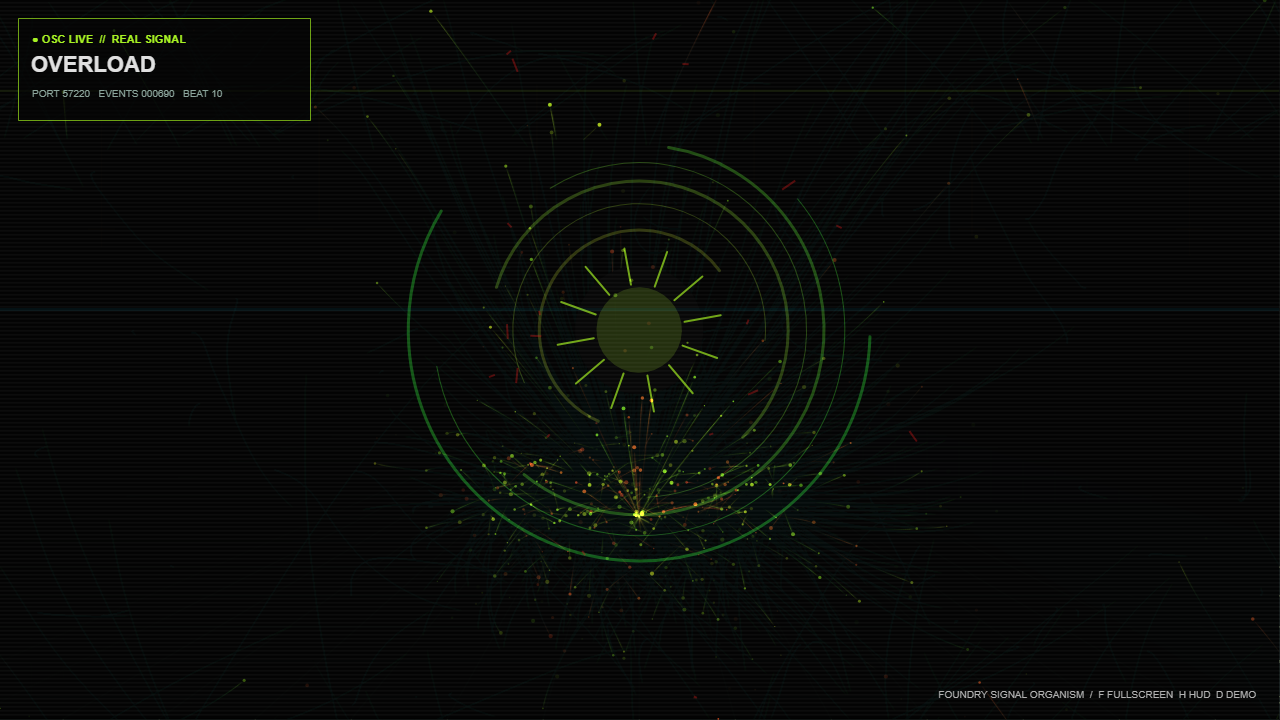
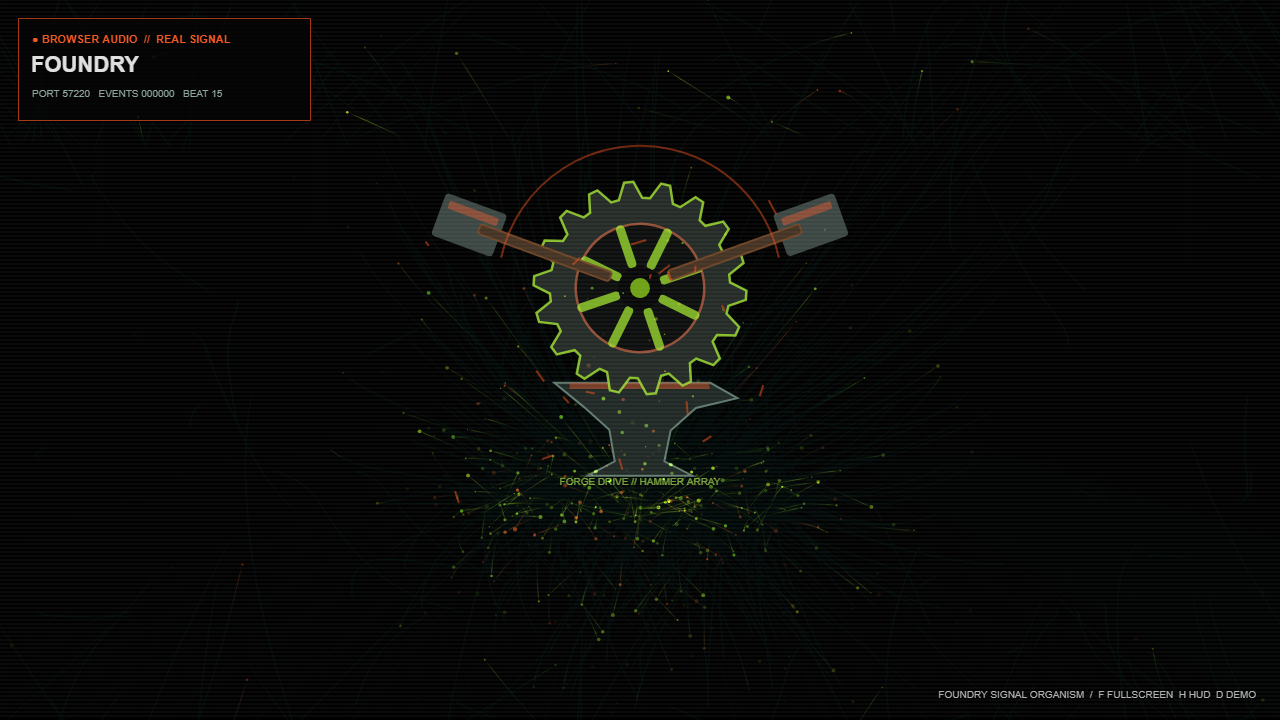
Add animated forge gear and hammer assembly

diff --git a/docs/index.html b/docs/index.html
@@ -134,14 +134,33 @@ function renderTrails(){
   trails.blendMode(BLEND);image(trails,0,0);
 }
 function renderCore(){
-  const cx=width/2,cy=height*.46,base=Math.min(width,height)*(.13+state.kick*.018);
-  push();translate(cx,cy);rotate(frameCount*.002*(state.section==='OVERLOAD'?4:1));
-  blendMode(ADD);noFill();
-  for(let r=0;r<7;r++){const rr=base*(1+r*.22)+sin(frameCount*.025+r)*5;stroke((82+r*9+state.sectionIndex*31)%360,80,70,20+r*3+state.note*14);strokeWeight(r%2?1:3);arc(0,0,rr*2,rr*2,r*.72+state.snare,r*.72+PI+state.kick)}
-  blendMode(BLEND);noStroke();fill(0,0,2,92);circle(0,0,base*1.28);fill(82,80,80,8+state.kick*25);circle(0,0,base*(.75+state.kick*.2));
-  stroke(82,88,95,68);strokeWeight(2);for(let i=0;i<12;i++){const a=TWO_PI*i/12+frameCount*.006;const r1=base*.46,r2=base*(.72+state.note*.2);line(cos(a)*r1,sin(a)*r1,cos(a)*r2,sin(a)*r2)}
-  if(state.voice>.02){noFill();stroke(190,85,95,state.voice*70);strokeWeight(2);for(let i=0;i<5;i++){const rr=base*(1.5+i*.18+sin(frameCount*.15+i)*.05);arc(0,0,rr*2,rr*2,-1.1,1.1)}}
+  const cx=width/2,cy=height*.40,base=Math.min(width,height)*(.125+state.kick*.012);
+  drawAnvil(cx,cy+base*1.30,base);
+  push();translate(cx,cy);rotate(frameCount*.008*(state.section==='OVERLOAD'?2.4:1));
+  stroke(82,78,92,78);strokeWeight(2.5);fill(155,18,18,96);
+  beginShape();const teeth=18;
+  for(let i=0;i<teeth*4;i++){const a=TWO_PI*i/(teeth*4),phase=i%4,r=base*(phase===1||phase===2?1.18:1.0);vertex(cos(a)*r,sin(a)*r)}
+  endShape(CLOSE);
+  fill(160,12,6,100);stroke(15,65,75,72);circle(0,0,base*1.42);
+  stroke(82,80,92,72);strokeWeight(base*.10);for(let i=0;i<8;i++){const a=TWO_PI*i/8;line(cos(a)*base*.28,sin(a)*base*.28,cos(a)*base*.68,sin(a)*base*.68)}
+  noStroke();fill(0,0,3,100);circle(0,0,base*.48);fill(82,88,95,65+state.kick*30);circle(0,0,base*.22);
   pop();
+  drawHammer(cx-base*1.95,cy-base*.72,1,state.kick,base);
+  drawHammer(cx+base*1.95,cy-base*.72,-1,state.snare,base);
+  noFill();stroke(15,88,95,45+state.snare*40);strokeWeight(2);arc(cx,cy,base*3.15,base*3.15,PI+.22,TWO_PI-.22);
+  if(state.voice>.02){stroke(190,85,95,state.voice*70);for(let i=0;i<4;i++){const rr=base*(1.75+i*.17);arc(cx,cy,rr*2,rr*2,-1.05,1.05)}}
+  noStroke();fill(82,65,88,70);textAlign(CENTER);textSize(10);text('FORGE DRIVE // HAMMER ARRAY',cx,cy+base*2.18);textAlign(LEFT);
+}
+function drawHammer(x,y,side,impact,b){
+  push();translate(x,y);scale(side,1);rotate(.34+impact*.46);const len=b*1.55;
+  noStroke();fill(155,16,28,100);rect(-b*.30,-b*.25,b*.72,b*.50,4);fill(15,70,70,65);rect(-b*.23,-b*.18,b*.58,b*.09,2);
+  stroke(25,65,45,90);strokeWeight(2);fill(28,48,27,100);rect(b*.18,-b*.055,len,b*.11,3);
+  pop();
+}
+function drawAnvil(x,y,b){
+  push();translate(x,y);stroke(155,20,52,90);strokeWeight(2);fill(158,18,16,100);
+  beginShape();vertex(-b*.95,-b*.25);vertex(b*.78,-b*.25);vertex(b*1.08,-b*.08);vertex(b*.62,b*.03);vertex(b*.34,b*.28);vertex(b*.27,b*.62);vertex(b*.58,b*.78);vertex(-b*.58,b*.78);vertex(-b*.28,b*.62);vertex(-b*.34,b*.27);vertex(-b*.62,b*.02);endShape(CLOSE);
+  fill(15,78,75,55+state.kick*35);noStroke();rect(-b*.78,-b*.25,b*1.55,b*.07);pop();
 }
 function renderParticles(){
   blendMode(ADD);noStroke();

diff --git a/public/index.html b/public/index.html
@@ -84,14 +84,33 @@ function renderTrails(){
   trails.blendMode(BLEND);image(trails,0,0);
 }
 function renderCore(){
-  const cx=width/2,cy=height*.46,base=Math.min(width,height)*(.13+state.kick*.018);
-  push();translate(cx,cy);rotate(frameCount*.002*(state.section==='OVERLOAD'?4:1));
-  blendMode(ADD);noFill();
-  for(let r=0;r<7;r++){const rr=base*(1+r*.22)+sin(frameCount*.025+r)*5;stroke((82+r*9+state.sectionIndex*31)%360,80,70,20+r*3+state.note*14);strokeWeight(r%2?1:3);arc(0,0,rr*2,rr*2,r*.72+state.snare,r*.72+PI+state.kick)}
-  blendMode(BLEND);noStroke();fill(0,0,2,92);circle(0,0,base*1.28);fill(82,80,80,8+state.kick*25);circle(0,0,base*(.75+state.kick*.2));
-  stroke(82,88,95,68);strokeWeight(2);for(let i=0;i<12;i++){const a=TWO_PI*i/12+frameCount*.006;const r1=base*.46,r2=base*(.72+state.note*.2);line(cos(a)*r1,sin(a)*r1,cos(a)*r2,sin(a)*r2)}
-  if(state.voice>.02){noFill();stroke(190,85,95,state.voice*70);strokeWeight(2);for(let i=0;i<5;i++){const rr=base*(1.5+i*.18+sin(frameCount*.15+i)*.05);arc(0,0,rr*2,rr*2,-1.1,1.1)}}
+  const cx=width/2,cy=height*.40,base=Math.min(width,height)*(.125+state.kick*.012);
+  drawAnvil(cx,cy+base*1.30,base);
+  push();translate(cx,cy);rotate(frameCount*.008*(state.section==='OVERLOAD'?2.4:1));
+  stroke(82,78,92,78);strokeWeight(2.5);fill(155,18,18,96);
+  beginShape();const teeth=18;
+  for(let i=0;i<teeth*4;i++){const a=TWO_PI*i/(teeth*4),phase=i%4,r=base*(phase===1||phase===2?1.18:1.0);vertex(cos(a)*r,sin(a)*r)}
+  endShape(CLOSE);
+  fill(160,12,6,100);stroke(15,65,75,72);circle(0,0,base*1.42);
+  stroke(82,80,92,72);strokeWeight(base*.10);for(let i=0;i<8;i++){const a=TWO_PI*i/8;line(cos(a)*base*.28,sin(a)*base*.28,cos(a)*base*.68,sin(a)*base*.68)}
+  noStroke();fill(0,0,3,100);circle(0,0,base*.48);fill(82,88,95,65+state.kick*30);circle(0,0,base*.22);
   pop();
+  drawHammer(cx-base*1.95,cy-base*.72,1,state.kick,base);
+  drawHammer(cx+base*1.95,cy-base*.72,-1,state.snare,base);
+  noFill();stroke(15,88,95,45+state.snare*40);strokeWeight(2);arc(cx,cy,base*3.15,base*3.15,PI+.22,TWO_PI-.22);
+  if(state.voice>.02){stroke(190,85,95,state.voice*70);for(let i=0;i<4;i++){const rr=base*(1.75+i*.17);arc(cx,cy,rr*2,rr*2,-1.05,1.05)}}
+  noStroke();fill(82,65,88,70);textAlign(CENTER);textSize(10);text('FORGE DRIVE // HAMMER ARRAY',cx,cy+base*2.18);textAlign(LEFT);
+}
+function drawHammer(x,y,side,impact,b){
+  push();translate(x,y);scale(side,1);rotate(.34+impact*.46);const len=b*1.55;
+  noStroke();fill(155,16,28,100);rect(-b*.30,-b*.25,b*.72,b*.50,4);fill(15,70,70,65);rect(-b*.23,-b*.18,b*.58,b*.09,2);
+  stroke(25,65,45,90);strokeWeight(2);fill(28,48,27,100);rect(b*.18,-b*.055,len,b*.11,3);
+  pop();
+}
+function drawAnvil(x,y,b){
+  push();translate(x,y);stroke(155,20,52,90);strokeWeight(2);fill(158,18,16,100);
+  beginShape();vertex(-b*.95,-b*.25);vertex(b*.78,-b*.25);vertex(b*1.08,-b*.08);vertex(b*.62,b*.03);vertex(b*.34,b*.28);vertex(b*.27,b*.62);vertex(b*.58,b*.78);vertex(-b*.58,b*.78);vertex(-b*.28,b*.62);vertex(-b*.34,b*.27);vertex(-b*.62,b*.02);endShape(CLOSE);
+  fill(15,78,75,55+state.kick*35);noStroke();rect(-b*.78,-b*.25,b*1.55,b*.07);pop();
 }
 function renderParticles(){
   blendMode(ADD);noStroke();
